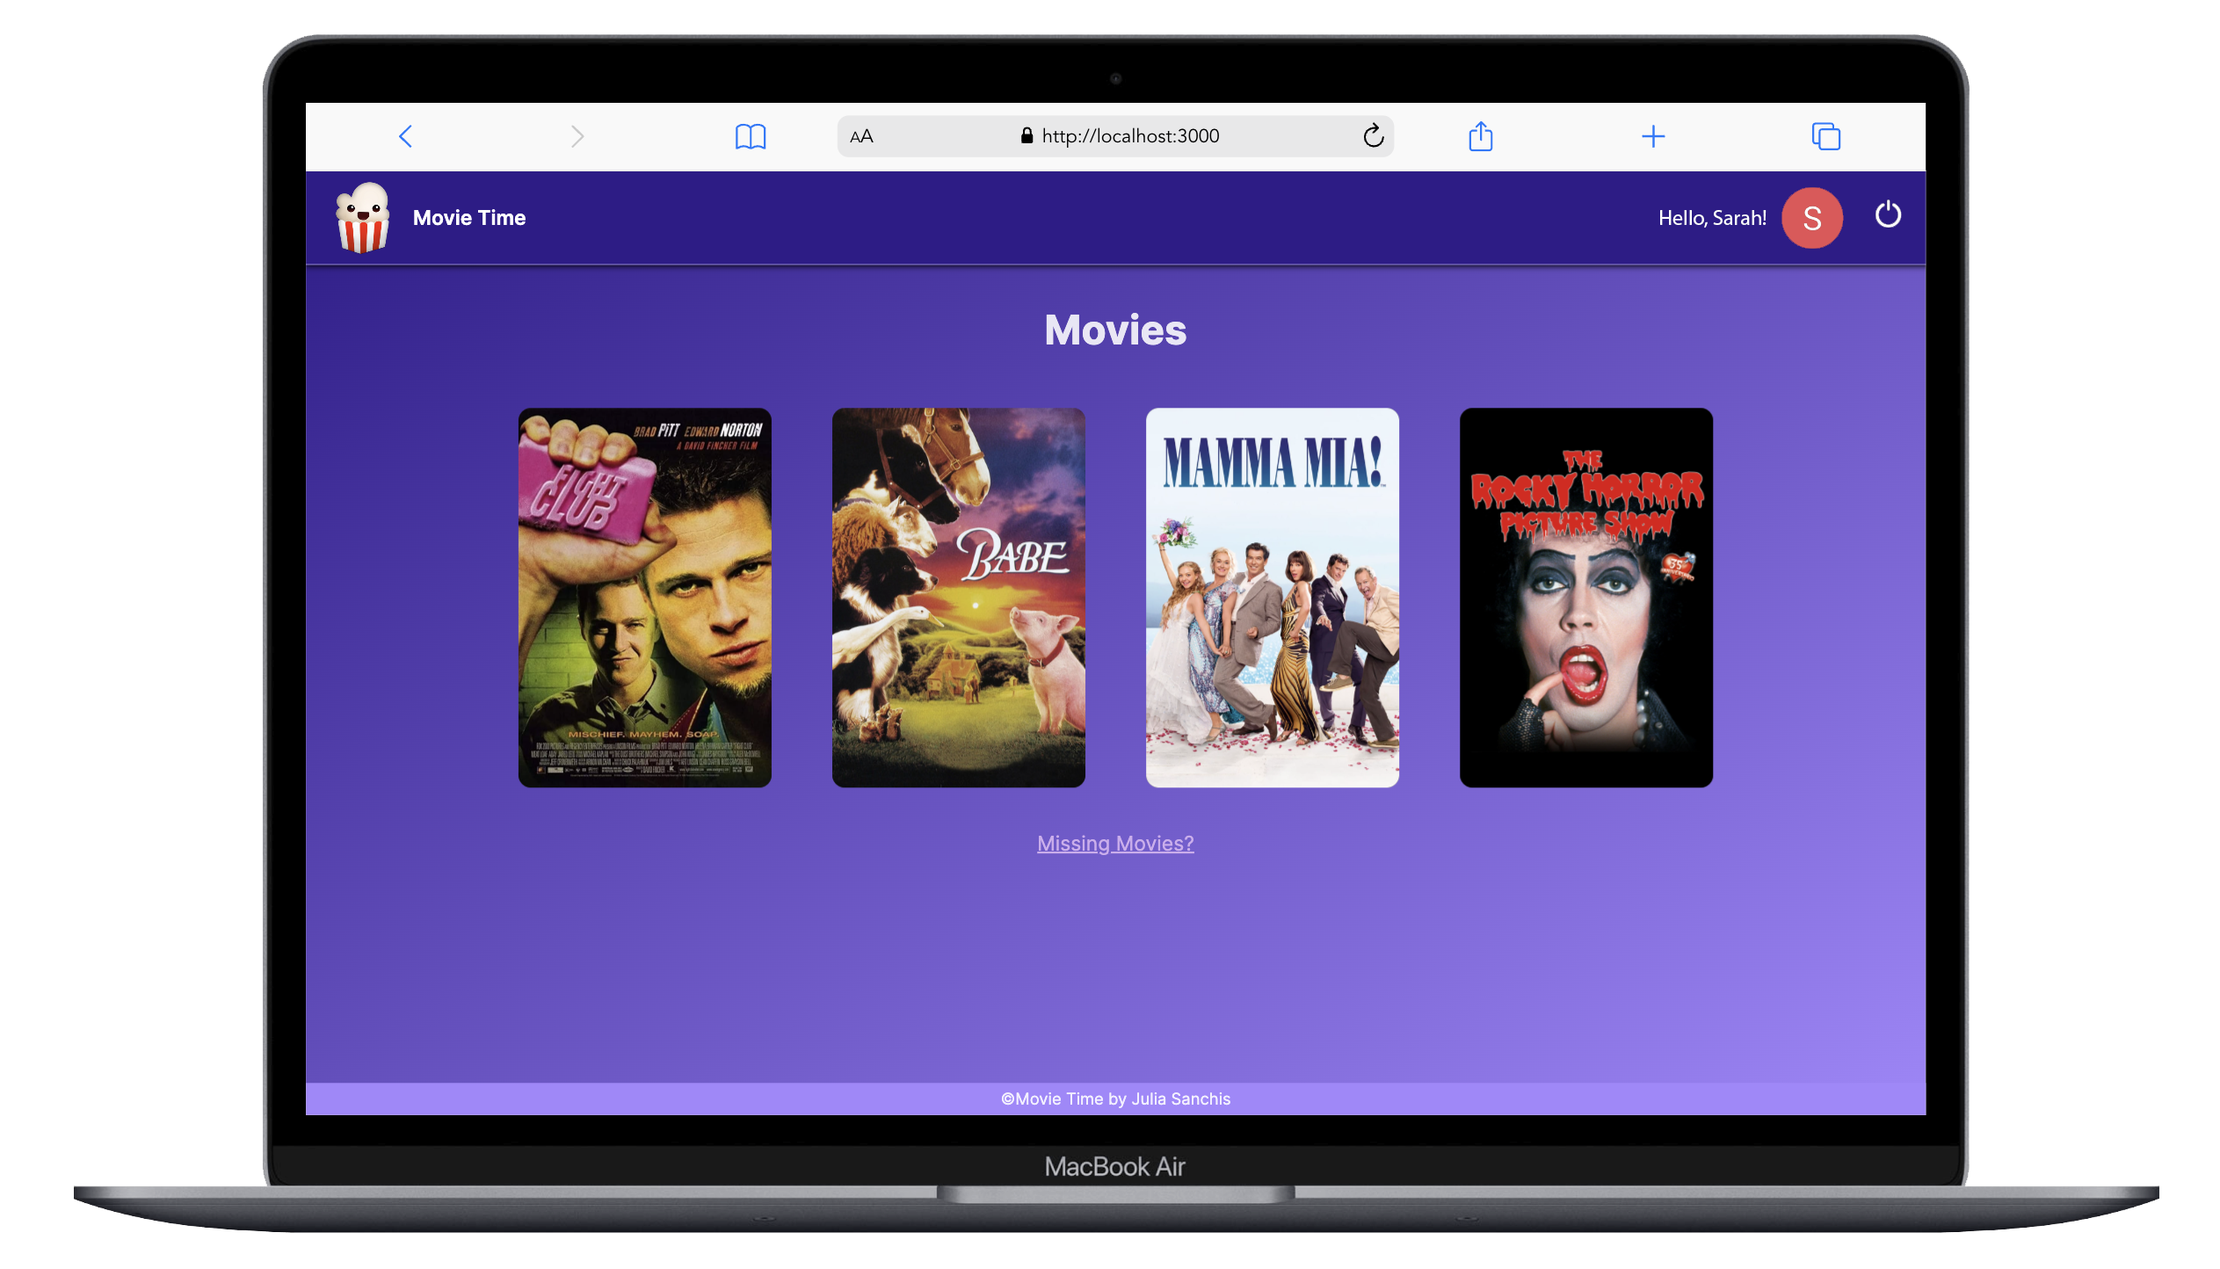
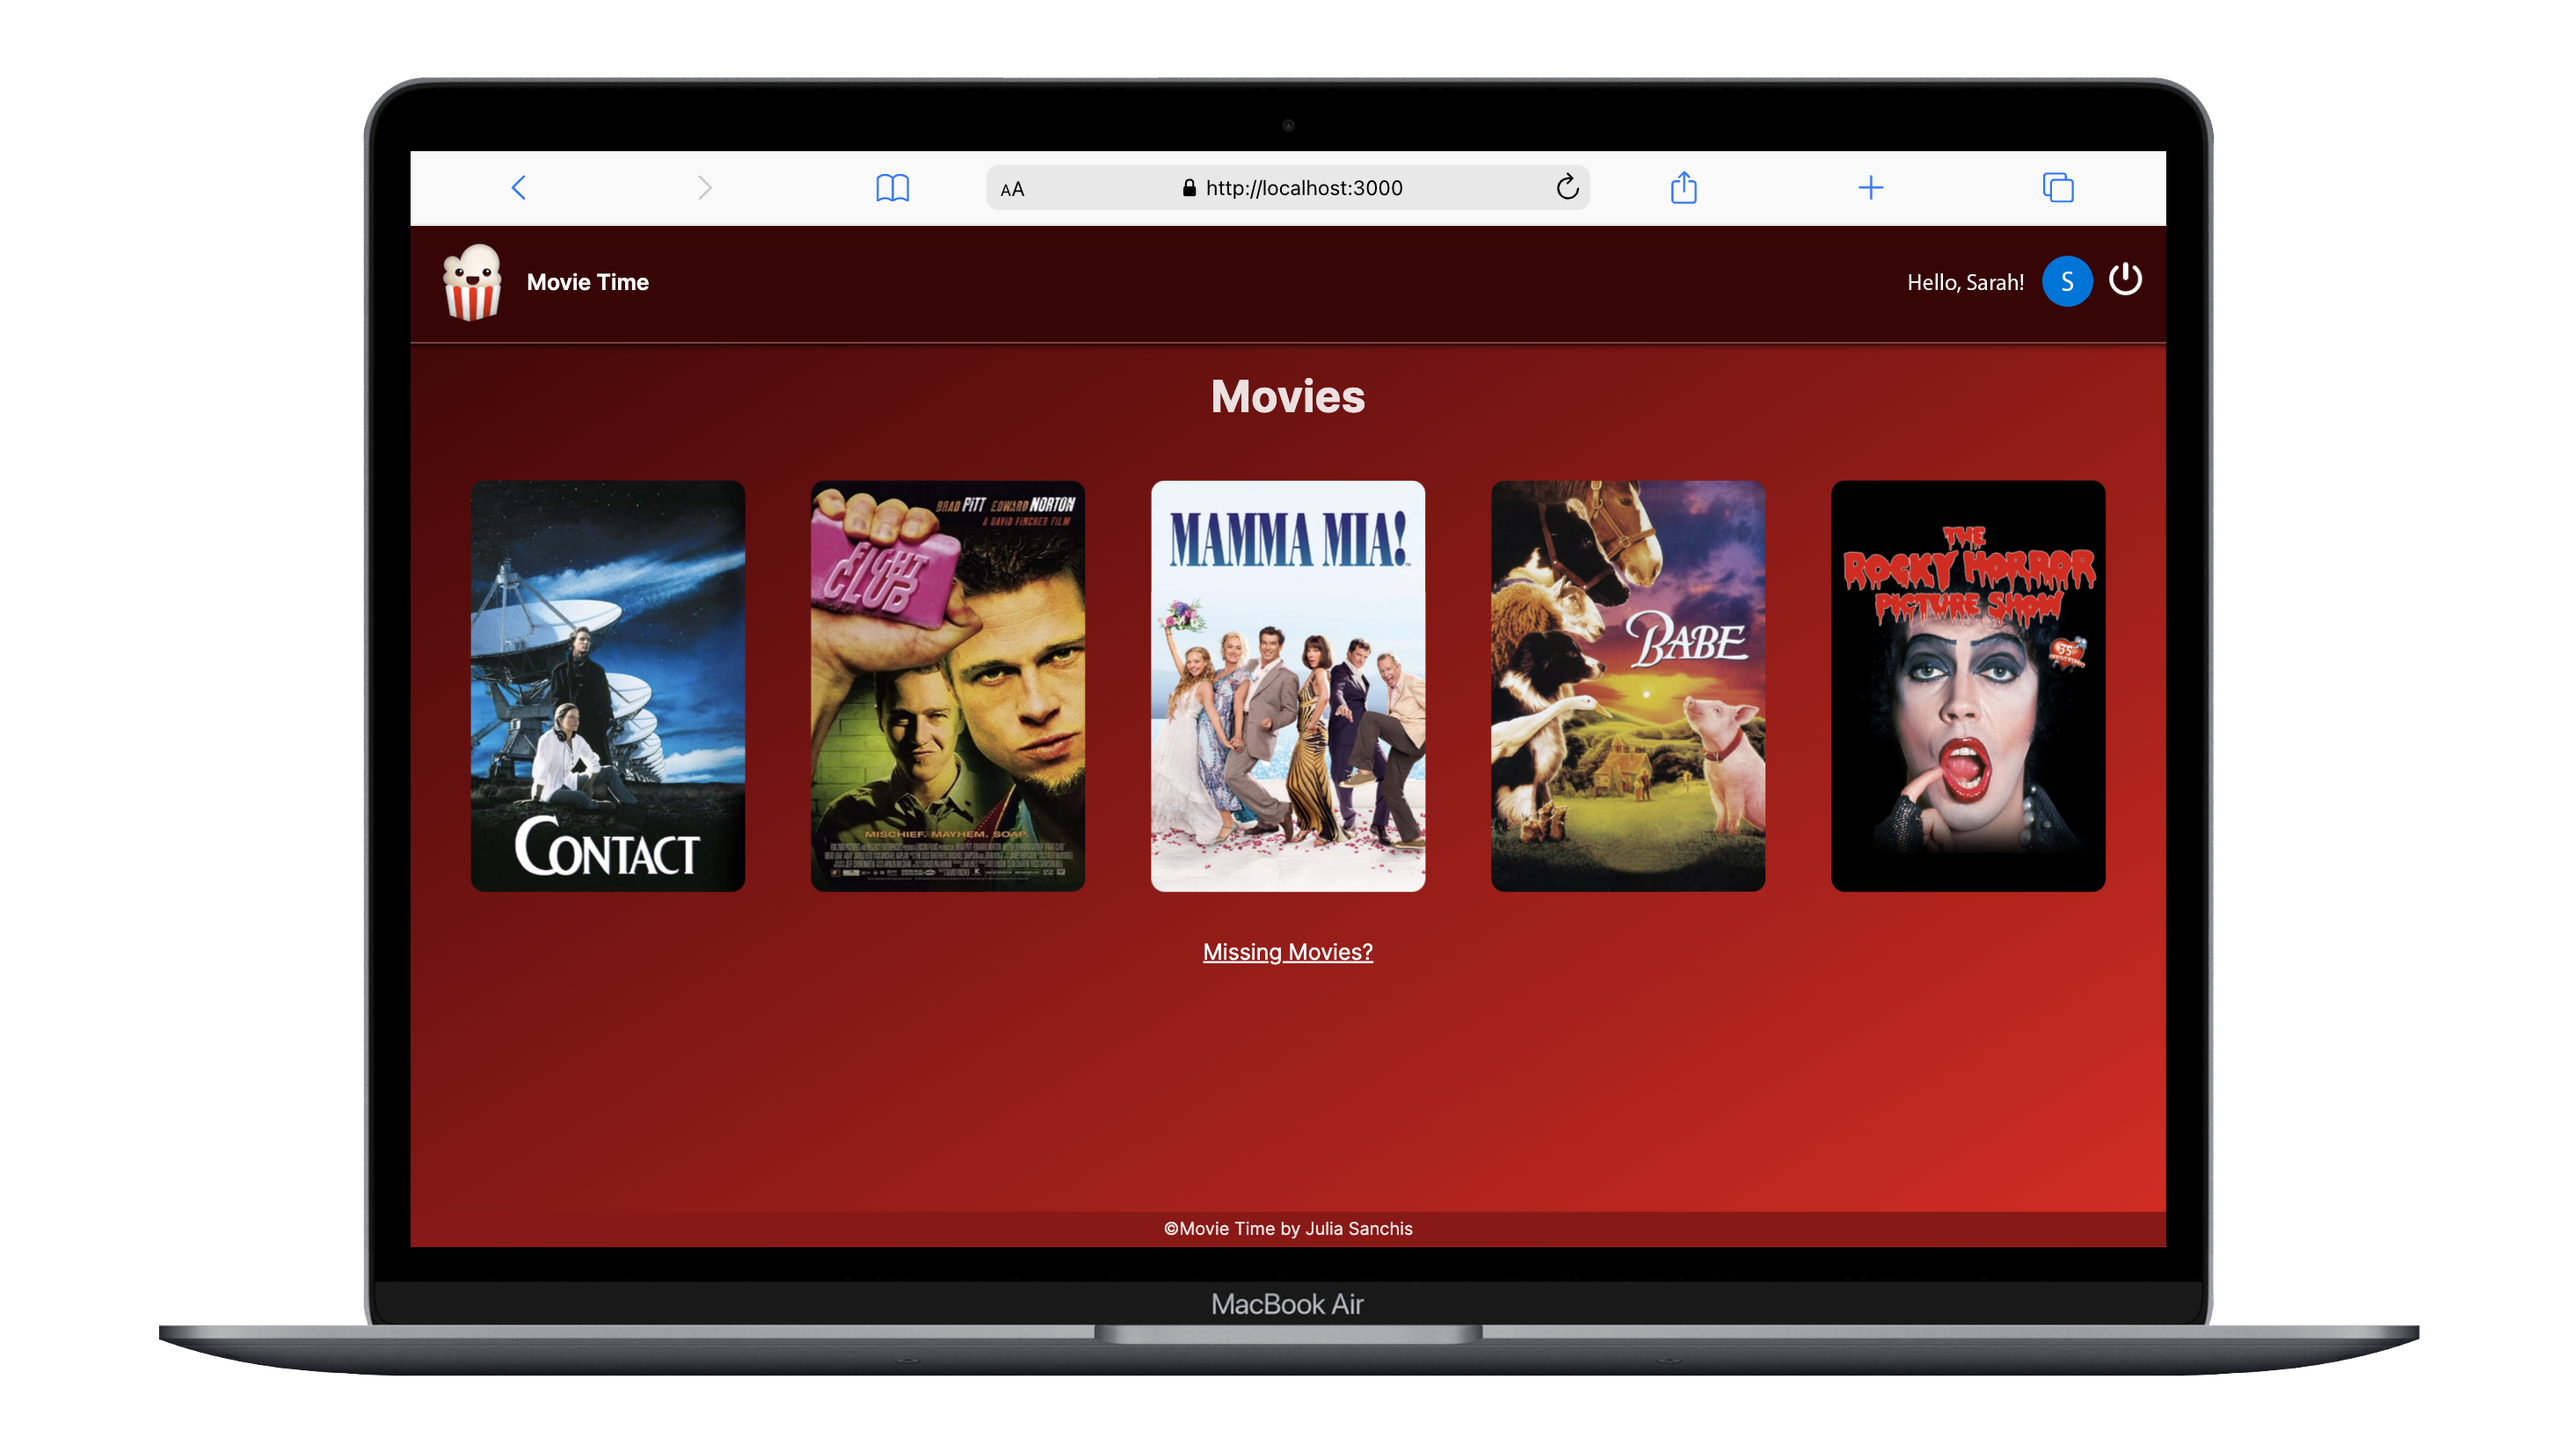
fix: styles, update readme

diff --git a/front/src/app/globals.css b/front/src/app/globals.css
@@ -10,18 +10,22 @@ body {
 
   color-scheme: light dark;
   color: rgba(255, 255, 255, 0.87);
-  background-image: linear-gradient(to bottom right, #301b8b, #a487ff);
+  background-image: linear-gradient(to bottom right, #3f0004, #e90010);
 
   text-align: center;
   --first-color: #ffffff;
-  --second-color: #646cff;
-  --third-color: #2d1e58;
-  --fourth-color: #a487ff;
+  --second-color: #e90010;
+  --third-color: #3f0004;
+  --fourth-color: #95000a;
 }
 
 h2 {
   padding-top: 2rem;
   margin: 0;
+}
+
+a {
+  color: white;
 }
 
 button {

diff --git a/front/src/components/header/header.css b/front/src/components/header/header.css
@@ -3,14 +3,14 @@ header {
   display: flex;
   justify-content: space-between;
   align-items: center;
-  border-bottom: 0.05rem solid #beb0f9;
+  border-bottom: 0.05rem solid #ff9ca2;
   padding: 0.3rem;
   position: fixed;
   width: 100%;
   margin: 0;
   top: 0;
   z-index: 2;
-  background-color: #301b8b;
+  background-color: #3d0004;
 }
 
 .headerName {
